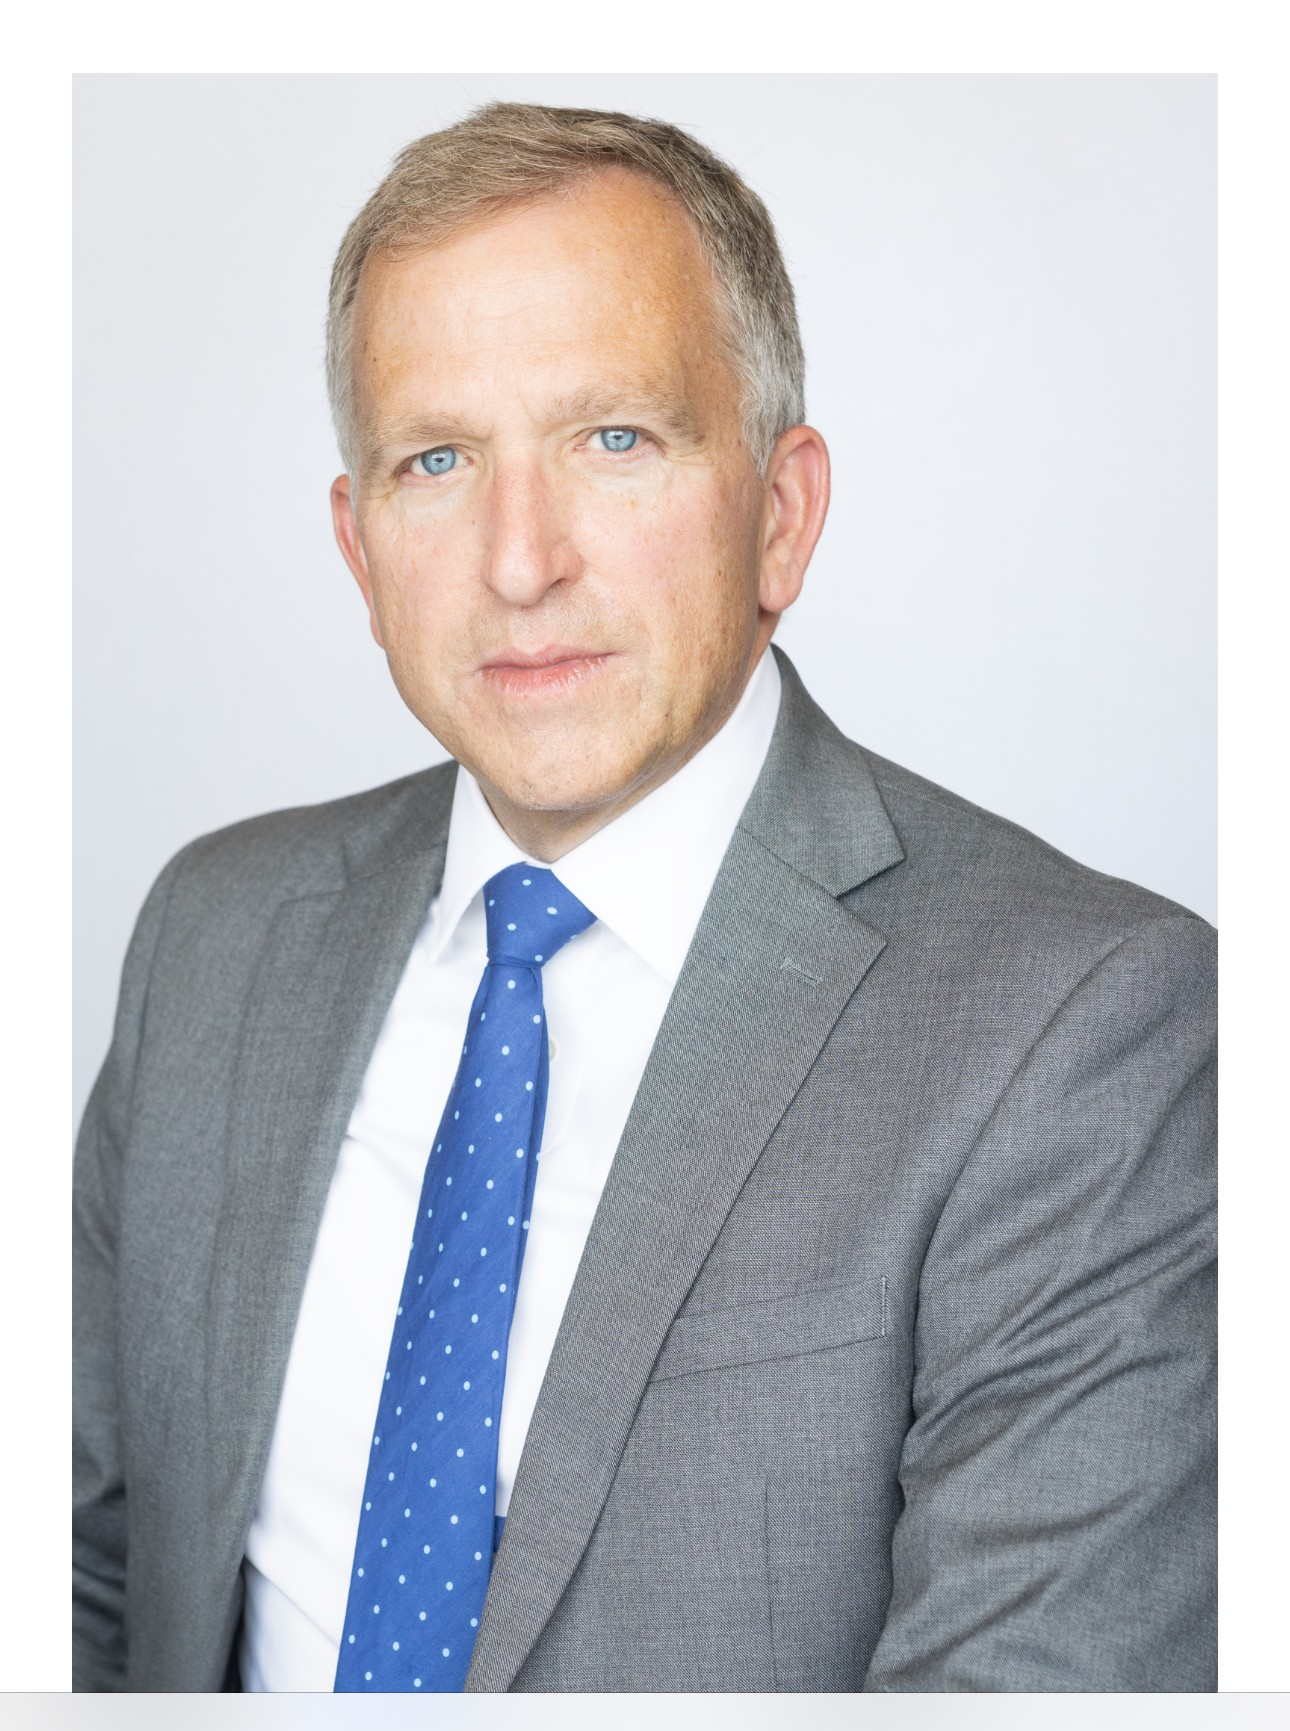
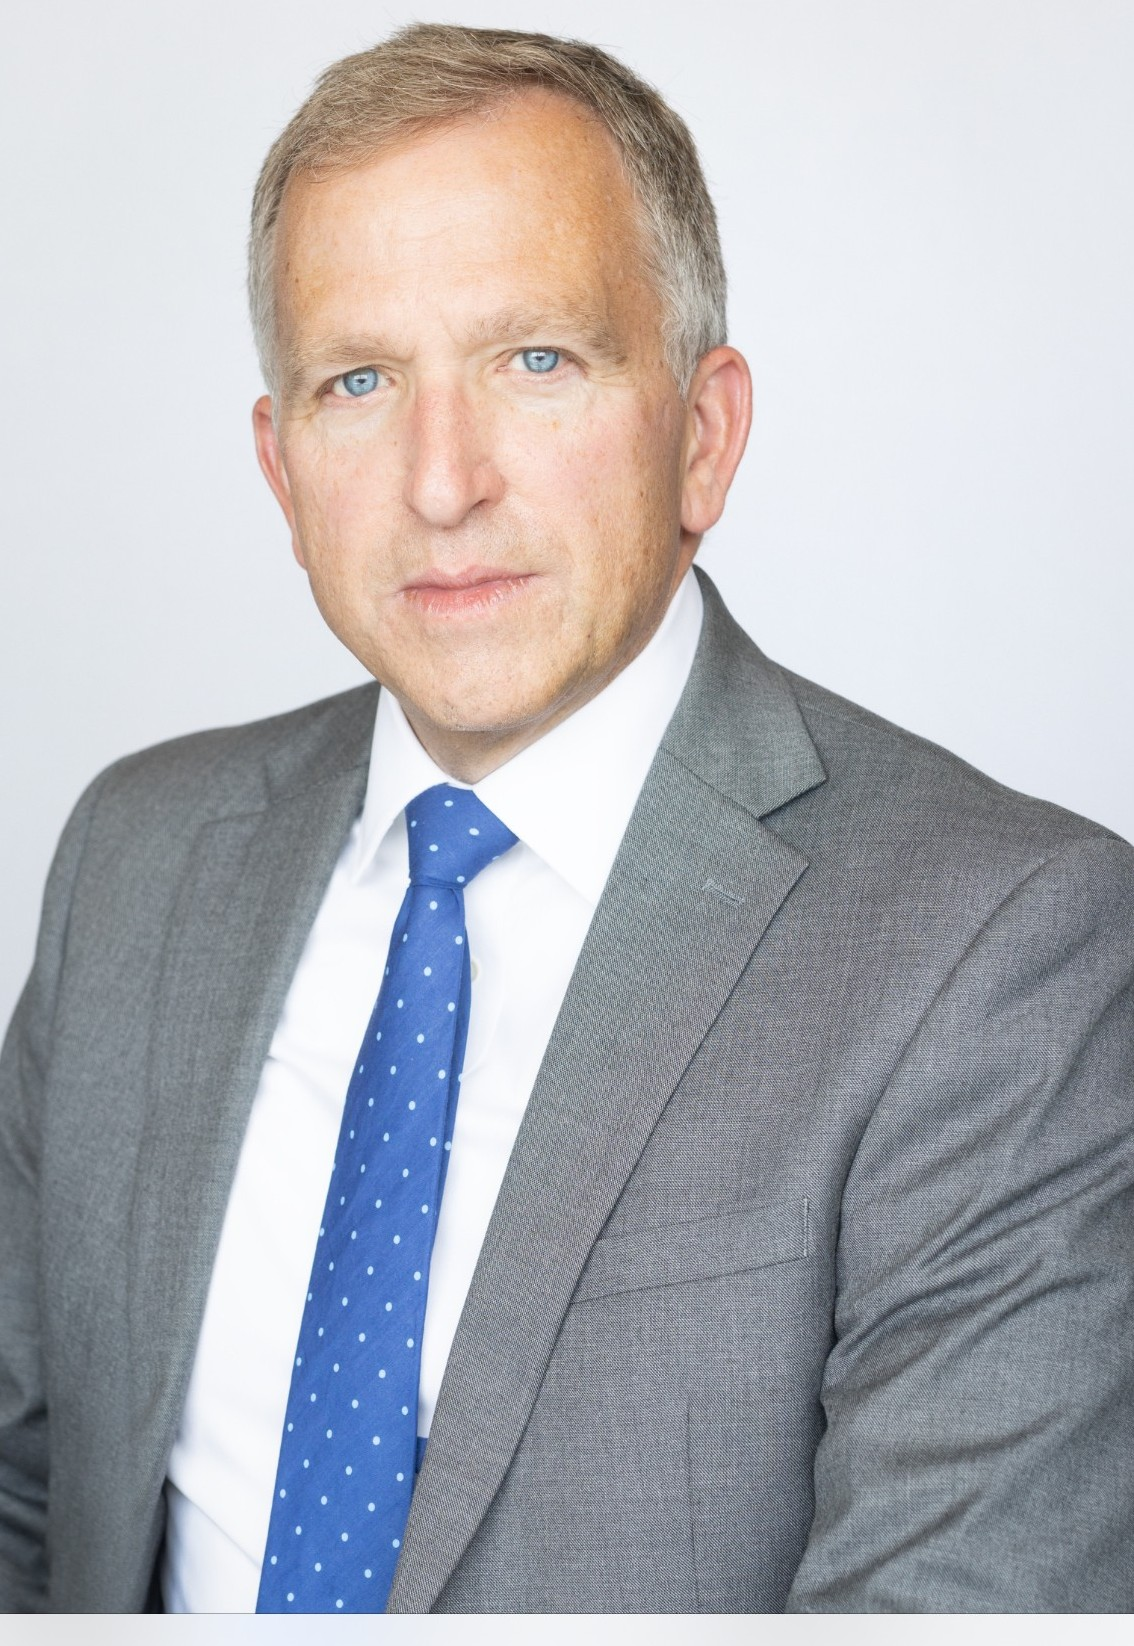
Crop white frame from Kevin's photo; make Why-Us reasons a click-to-expand accordion
- kevin-heitke.jpg: removed baked-in white mat/frame
- Why Us: 5 numbered accordion items (click to expand), replaced emoji icons
  with clean numbered badges + animated +/- toggle

diff --git a/index.html b/index.html
@@ -180,13 +180,69 @@
       <h2 class="section-title">Five reasons clients trust Green&nbsp;&amp;&nbsp;Greenberg.</h2>
       <p class="lede">Big out-of-state call centers can't offer what a dedicated local firm does.</p>
     </div>
-    <div class="cards">
-      <div class="card reveal"><div class="ico">📍</div><h3>Right Here at Home</h3><p>Offices in Rhode Island and Massachusetts — real attorneys you can meet, not a 1-800 intake line three states away.</p></div>
-      <div class="card reveal"><div class="ico">⚖️</div><h3>One Focus Only</h3><p>We handle Social Security Disability claims and nothing else. That concentration is your advantage.</p></div>
-      <div class="card reveal"><div class="ico">👩⚖️</div><h3>Known to the Judges</h3><p>Decades of hearings mean a reputation with the local administrative law judges who decide your case.</p></div>
-      <div class="card reveal"><div class="ico">🤝</div><h3>Personal Service</h3><p>You get a dedicated team that returns your calls and keeps you informed at every stage.</p></div>
-      <div class="card reveal"><div class="ico">🩺</div><h3>Medical Network</h3><p>Established relationships with area providers help us gather the records and opinions that win claims.</p></div>
-      <div class="card reveal"><div class="ico">💵</div><h3>No Win, No Fee</h3><p>Nothing up front. Our fee is a capped percentage of the past-due benefits we recover for you.</p></div>
+    <!-- click-to-expand accordion — toggle logic in script.js (part E) -->
+    <div class="accordion reveal" id="whyAccordion">
+
+      <div class="acc-item">
+        <button class="acc-head" aria-expanded="false">
+          <span class="acc-num">01</span>
+          <span class="acc-title">Right Here at Home</span>
+          <span class="acc-sub">Local offices in RI &amp; MA — never a call center</span>
+          <span class="acc-toggle" aria-hidden="true"></span>
+        </button>
+        <div class="acc-body"><div class="acc-body-inner">
+          <p>When you work with us you meet real attorneys at our Providence and Fall River offices. You're never routed to an out-of-state 1-800 intake line that hands your file to whoever picks up. We know the local Social Security field offices, the regional hearing office, and the community you live in.</p>
+        </div></div>
+      </div>
+
+      <div class="acc-item">
+        <button class="acc-head" aria-expanded="false">
+          <span class="acc-num">02</span>
+          <span class="acc-title">One Focus Only</span>
+          <span class="acc-sub">Disability claims are all we do</span>
+          <span class="acc-toggle" aria-hidden="true"></span>
+        </button>
+        <div class="acc-body"><div class="acc-body-inner">
+          <p>Since 1991 our entire practice has been devoted to SSDI and SSI. We don't fit disability work in between car accidents and real-estate closings — this is all we do, every day. That means we know the regulations, the medical listings, and the arguments that win, cold.</p>
+        </div></div>
+      </div>
+
+      <div class="acc-item">
+        <button class="acc-head" aria-expanded="false">
+          <span class="acc-num">03</span>
+          <span class="acc-title">Known to the Judges</span>
+          <span class="acc-sub">A reputation built over decades of hearings</span>
+          <span class="acc-toggle" aria-hidden="true"></span>
+        </button>
+        <div class="acc-body"><div class="acc-body-inner">
+          <p>Our attorneys have appeared before the region's administrative law judges for decades. A long track record of credible, well-prepared cases means our arguments carry weight in the hearing room — an advantage an out-of-town firm simply can't match.</p>
+        </div></div>
+      </div>
+
+      <div class="acc-item">
+        <button class="acc-head" aria-expanded="false">
+          <span class="acc-num">04</span>
+          <span class="acc-title">Personal Service</span>
+          <span class="acc-sub">A dedicated team that returns your calls</span>
+          <span class="acc-toggle" aria-hidden="true"></span>
+        </button>
+        <div class="acc-body"><div class="acc-body-inner">
+          <p>You get a real point of contact who keeps you informed at every stage — application, reconsideration, hearing, and appeal. No wondering where your case stands, and no waiting days for a callback.</p>
+        </div></div>
+      </div>
+
+      <div class="acc-item">
+        <button class="acc-head" aria-expanded="false">
+          <span class="acc-num">05</span>
+          <span class="acc-title">Medical Network</span>
+          <span class="acc-sub">Relationships that strengthen your claim</span>
+          <span class="acc-toggle" aria-hidden="true"></span>
+        </button>
+        <div class="acc-body"><div class="acc-body-inner">
+          <p>Disability claims are won on the medical evidence. Our established relationships with area providers help us obtain the records, opinions, and supporting statements that turn a borderline claim into an approval.</p>
+        </div></div>
+      </div>
+
     </div>
   </div>
 </section>

diff --git a/styles.css b/styles.css
@@ -229,6 +229,44 @@ section { padding: clamp(3.5rem, 7vw, 6rem) 0; }
 .card h3 { font-size: 1.15rem; margin-bottom: .35rem; }
 .card p { color: #bcd2ce; margin: 0; font-size: .96rem; }
 
+/* --- Why Us: click-to-expand accordion --- */
+.accordion { max-width: 860px; margin: 2.6rem auto 0; display: grid; gap: .8rem; }
+.acc-item {
+  background: rgba(255,255,255,.05); border: 1px solid rgba(255,255,255,.12);
+  border-radius: var(--radius); overflow: hidden; transition: background .25s, border-color .25s;
+}
+.acc-item.open { background: rgba(255,255,255,.09); border-color: rgba(233,185,106,.5); }
+.acc-head {
+  width: 100%; background: none; border: 0; cursor: pointer; text-align: left;
+  display: grid; grid-template-columns: auto 1fr auto; align-items: center; gap: .5rem 1.1rem;
+  padding: 1.15rem 1.4rem; color: #fff; font-family: inherit;
+}
+.acc-num {
+  grid-row: span 2; font-family: var(--serif); font-size: 1.35rem; color: var(--gold-soft);
+  width: 48px; height: 48px; display: grid; place-items: center;
+  border: 1px solid rgba(233,185,106,.45); border-radius: 12px; transition: .25s;
+}
+.acc-item.open .acc-num { background: var(--gold); color: #3a2600; border-color: var(--gold); }
+.acc-title { font-family: var(--serif); font-size: 1.15rem; align-self: end; line-height: 1.2; }
+.acc-sub { grid-column: 2; font-size: .88rem; color: #a9c4bf; align-self: start; }
+/* +/- toggle drawn in CSS */
+.acc-toggle { grid-row: span 2; position: relative; width: 20px; height: 20px; justify-self: end; }
+.acc-toggle::before, .acc-toggle::after {
+  content: ""; position: absolute; top: 50%; left: 50%; width: 14px; height: 2px;
+  background: var(--gold-soft); transform: translate(-50%,-50%); transition: transform .3s var(--ease);
+}
+.acc-toggle::after { transform: translate(-50%,-50%) rotate(90deg); }
+.acc-item.open .acc-toggle::after { transform: translate(-50%,-50%) rotate(0deg); }  /* + → − */
+/* smooth height via grid-template-rows */
+.acc-body { display: grid; grid-template-rows: 0fr; transition: grid-template-rows .32s var(--ease); }
+.acc-item.open .acc-body { grid-template-rows: 1fr; }
+.acc-body-inner { overflow: hidden; }
+.acc-body-inner p { color: #cfe0dc; margin: 0; padding: 0 1.4rem 1.3rem calc(48px + 2.5rem); font-size: .98rem; }
+@media (max-width: 620px) {
+  .acc-head { grid-template-columns: auto 1fr auto; }
+  .acc-body-inner p { padding-left: 1.4rem; }
+}
+
 /* =================================================================
    PROCESS  (numbered steps)
    ================================================================= */

diff --git a/script.js b/script.js
@@ -111,6 +111,23 @@
   quick.addEventListener('click', e => { if (e.target.tagName === 'BUTTON') send(e.target.textContent); });
 })();
 
+/* ---------- E) WHY-US ACCORDION --------------------------------------------
+   Click a reason to expand its detail. Opening one closes the others.
+   -------------------------------------------------------------------------- */
+(function whyAccordion() {
+  const acc = document.getElementById('whyAccordion');
+  if (!acc) return;
+  const items = Array.from(acc.querySelectorAll('.acc-item'));
+  items.forEach(item => {
+    const head = item.querySelector('.acc-head');
+    head.addEventListener('click', () => {
+      const isOpen = item.classList.contains('open');
+      items.forEach(i => { i.classList.remove('open'); i.querySelector('.acc-head').setAttribute('aria-expanded', 'false'); });
+      if (!isOpen) { item.classList.add('open'); head.setAttribute('aria-expanded', 'true'); }
+    });
+  });
+})();
+
 /* ---------- C) SCROLL REVEAL ------------------------------------------------ */
 (function scrollReveal() {
   const items = document.querySelectorAll('.reveal');